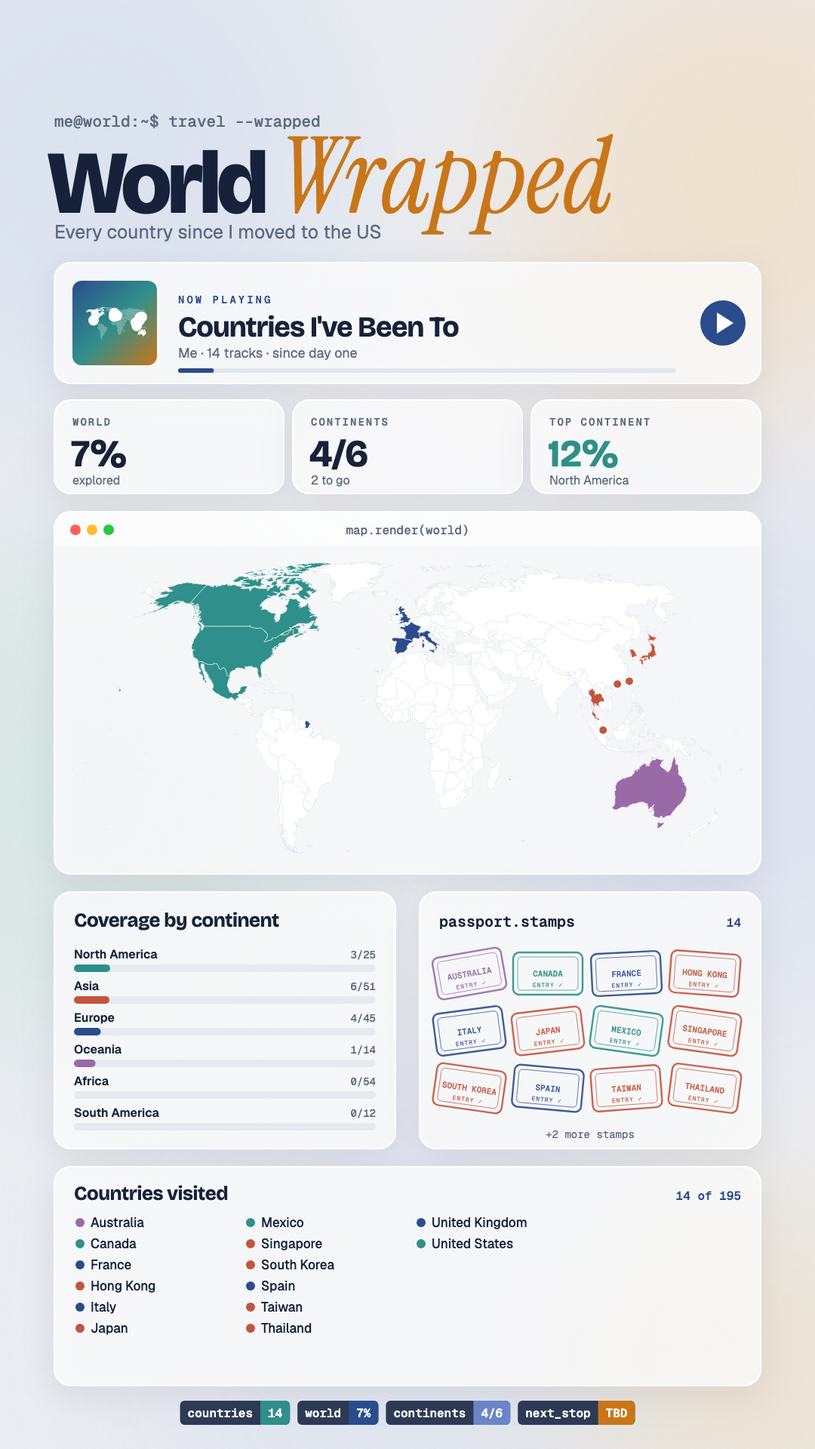
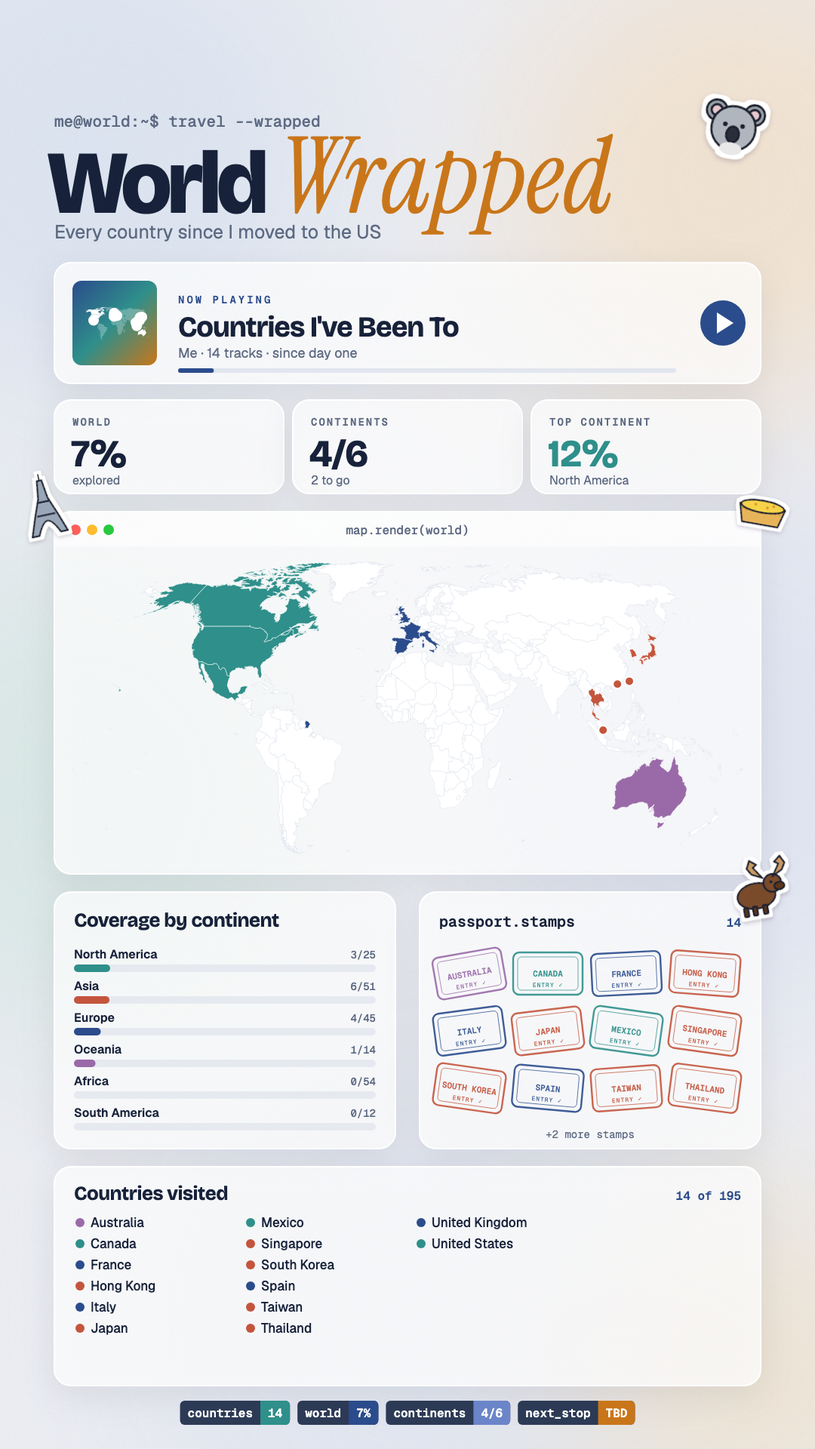
World mode stickers: what each country is known for
- generator/stickers-world.js: ~100 hand-drawn country stickers
  (Taiwan boba, Japan ramen, India curry, France Eiffel Tower...);
  other countries get a passport-stamp sticker in continent colors
- World designs place stickers around or on the world map
- Sticker picker works in World mode

diff --git a/generator/stickers-world.js b/generator/stickers-world.js
@@ -1,0 +1,137 @@
+/* Country stickers: what each country is known for. Loaded after stickers.js.
+   Countries without a hand-drawn sticker get a passport-stamp sticker (country code + continent color). */
+(function(){
+const O="#1f2433",W=3;let G=null;
+const S=e=>e.attr("stroke",O).attr("stroke-width",W).attr("stroke-linejoin","round").attr("stroke-linecap","round");
+const P=(d,f="none",ns)=>{const e=G.append("path").attr("d",d).attr("fill",f);return ns?e:S(e);};
+const C=(x,y,r,f,ns)=>{const e=G.append("circle").attr("cx",x).attr("cy",y).attr("r",r).attr("fill",f);return ns?e:S(e);};
+const E=(x,y,rx,ry,f,rot=0,ns)=>{const e=G.append("ellipse").attr("cx",x).attr("cy",y).attr("rx",rx).attr("ry",ry).attr("fill",f).attr("transform",rot?`rotate(${rot},${x},${y})`:null);return ns?e:S(e);};
+const R=(x,y,w,h,f,rx=3,ns)=>{const e=G.append("rect").attr("x",x).attr("y",y).attr("width",w).attr("height",h).attr("rx",rx).attr("fill",f);return ns?e:S(e);};
+const L=(d,w=W,c=O)=>G.append("path").attr("d",d).attr("fill","none").attr("stroke",c).attr("stroke-width",w).attr("stroke-linecap","round").attr("stroke-linejoin","round");
+const Tx=(x,y,t,s,c=O,w=800)=>G.append("text").attr("x",x).attr("y",y).attr("text-anchor","middle").attr("font-family","Bricolage Grotesque, Geist, sans-serif").attr("font-weight",w).attr("font-size",s).attr("fill",c).text(t);
+const eye=(x,y,r=2.6)=>C(x,y,r,O,true);
+const star=(x,y,r,f)=>{const p=[];for(let i=0;i<10;i++){const a=-Math.PI/2+i*Math.PI/5,rr=i%2?r*.45:r;p.push([x+Math.cos(a)*rr,y+Math.sin(a)*rr]);}P("M"+p.join("L")+"Z",f);};
+const A={
+/* ---------- Asia ---------- */
+"Taiwan":()=>{P("M-24,-24 L24,-24 L18,40 L-18,40Z","#ecc9a0");L("M-22,-6 L22,-6",2,"#d6a676");R(-28,-34,56,11,"#ffffff",4);L("M6,-34 L16,-56",8);L("M6,-34 L16,-56",4,"#ff8fab");[[-10,30],[0,33],[10,30],[-6,21],[6,21],[0,12]].forEach(([x,y])=>C(x,y,5,"#3b2414",true));},
+"Japan":()=>{P("M-42,-4 L42,-4 Q38,34 0,36 Q-38,34 -42,-4Z","#e2574c");L("M-36,12 Q0,22 36,12",2,"#ffffff");E(0,-4,42,9,"#f6d38a");E(-16,-6,10,6,"#ffffff");C(-16,-6,3.6,"#f6b73c",true);C(12,-7,7,"#ffffff");L("M9,-7 Q12,-12 15,-7 Q12,-3 10,-7",1.4,"#e2574c");L("M-6,-14 L36,-48",4);L("M4,-12 L42,-42",4);},
+"South Korea":()=>{P("M-24,-30 Q-40,-8 -32,20 Q-26,38 0,38 Q26,38 32,20 Q40,-8 24,-30Z","#8a5a3b");E(0,-30,26,6,"#6b4429");C(0,-38,5,"#6b4429");L("M-30,4 Q0,14 30,4",2,"#c49a6c");P("M-10,-36 Q-4,-50 4,-40 Q10,-52 14,-36Z","#e2574c");},
+"China":()=>{R(-42,4,84,30,"#d9b071",6);[14,24].forEach(y=>L(`M-42,${y} L42,${y}`,1.6,"#a87a3e"));E(-18,-4,18,13,"#fff7ea");E(16,-4,18,13,"#fff7ea");[-18,16].forEach(x=>{L(`M${x-8},${-8} Q${x},${-18} ${x+8},${-8}`,1.4,"#d9c8a8");C(x,-16,2.5,"#e8dcc4",true);});},
+"India":()=>{P("M-38,0 Q-36,30 0,32 Q36,30 38,0Z","#d9a54f");E(0,0,38,9,"#e8892f");[[-14,-2],[6,1],[18,-3],[-4,-4]].forEach(([x,y])=>C(x,y,2.4,"#4f9d69",true));E(24,-22,22,12,"#f2d29b",-22);[[18,-24],[28,-20],[26,-28]].forEach(([x,y])=>C(x,y,2,"#b8833e",true));},
+"Thailand":()=>{P("M-38,20 L-38,-8 Q-36,-28 -10,-28 L20,-28 L28,-4 L40,-2 L40,20Z","#2f8fd8");R(-42,-36,66,9,"#f6c64a",3);R(-30,-22,26,16,"#cfe9f7",3);C(-24,22,9,O,true);C(28,22,9,O,true);C(-24,22,3.5,"#d0d6de",true);C(28,22,3.5,"#d0d6de",true);},
+"Vietnam":()=>{P("M-46,12 L0,-36 L46,12Z","#f2d29b");for(const x of[-30,-15,0,15,30])L(`M0,-36 L${x},12`,1.2,"#c9a06a");L("M-22,12 Q0,34 22,12",2.5,"#c4553d");},
+"Singapore":()=>{P("M-14,0 Q-24,22 -10,40 L18,40 Q10,22 14,2Z","#e8e2d4");P("M10,38 Q26,30 30,40Z","#e8e2d4");C(-4,-18,17,"#e8e2d4");for(let i=0;i<7;i++){const a=Math.PI*.9+i*.28;L(`M${-4+12*Math.cos(a)},${-18+12*Math.sin(a)} L${-4+18*Math.cos(a)},${-18+18*Math.sin(a)}`,1.4,"#b9b2a2");}eye(-12,-22);L("M-20,-14 Q-34,-26 -44,-6",4,"#7fb2e5");},
+"Hong Kong":()=>{P("M-38,-6 L38,-6 L30,24 L-30,24Z","#e8b45a");L("M-34,4 L-30,0 L-26,4 L-22,0 L-18,4 L-14,0 L-10,4 L-6,0 L-2,4 L2,0 L6,4 L10,0 L14,4 L18,0 L22,4 L26,0 L30,4",1.4,"#c48a3a");E(0,-6,36,10,"#f6d34a");[[-12,-8],[8,-5],[18,-9]].forEach(([x,y])=>C(x,y,2.4,"#d99a2a",true));},
+"Macao":()=>{R(-34,-6,68,40,"#d9c3a0");R(-26,-28,52,22,"#d9c3a0");P("M-18,-28 L0,-46 L18,-28Z","#d9c3a0");L("M0,-46 L0,-56 M-5,-52 L5,-52",2.5);[[-24,4],[-6,4],[12,4]].forEach(([x,y])=>P(`M${x},${y+28} L${x},${y+10} Q${x+6},${y+2} ${x+12},${y+10} L${x+12},${y+28}`,"#a87a5a"));},
+"Philippines":()=>{R(-42,-20,84,36,"#e2574c",8);R(-42,-26,84,8,"#f6c64a",3);[-30,-12,6,24].forEach(x=>R(x,-14,14,12,"#cfe9f7",2));L("M-42,6 L42,6",2,"#ffffff");C(-24,18,9,O,true);C(26,18,9,O,true);P("M38,-26 L46,-40 L42,-26Z","#d0d6de");},
+"Indonesia":()=>{const h=s=>P(`M${s*4},40 L${s*4},-20 L${s*12},-20 L${s*12},-34 L${s*20},-34 L${s*20},-44 L${s*30},-44 L${s*30},-8 L${s*42},-8 L${s*42},40Z`,"#8a6a4a");h(-1);h(1);L("M-42,40 L42,40",3);},
+"Malaysia":()=>{[-16,16].forEach(x=>{P(`M${x-10},40 L${x-10},-20 L${x-6},-36 L${x+6},-36 L${x+10},-20 L${x+10},40Z`,"#d0d6de");L(`M${x},-36 L${x},-56`,2.4);for(let y=-14;y<40;y+=12)L(`M${x-8},${y} L${x+8},${y}`,1,"#9aa7b8");});R(-6,-8,12,6,"#9aa7b8",1);},
+"Cambodia":()=>{R(-44,14,88,26,"#c9b58a");[[-30,40],[-14,58],[0,72],[14,58],[30,40]].forEach(([x,h])=>P(`M${x-8},14 Q${x-10},${14-h*.6} ${x},${14-h} Q${x+10},${14-h*.6} ${x+8},14Z`,"#c9b58a"));},
+"Laos":()=>{P("M-22,-18 L22,-18 L26,30 Q0,40 -26,30Z","#d9b071");for(let y=-10;y<30;y+=8)L(`M-23,${y} L23,${y}`,1.3,"#a87a3e");E(0,-18,24,7,"#c49a5a");C(0,-28,6,"#c49a5a");L("M-24,-12 Q-40,-30 -24,-40",2.4);},
+"Myanmar":()=>{P("M-34,40 L-30,24 Q-30,0 0,-8 Q30,0 30,24 L34,40Z","#f2c14e");P("M-10,-8 Q0,-36 0,-56 Q0,-36 10,-8Z","#f2c14e");C(0,-58,3,"#ffffff");R(-38,36,76,6,"#d9a531",2);},
+"Nepal":()=>{P("M-44,40 L-6,-36 L10,-14 L20,-26 L44,40Z","#9fb3d8");P("M-18,-12 L-6,-36 L4,-22 L-4,-18 L-10,-24Z","#ffffff");L("M-44,-20 Q0,0 44,-28",1.2);["#e2574c","#f6c64a","#4f9d69","#4d8fcc","#ffffff"].forEach((c,i)=>{const x=-36+i*17,y=-17+i*-1.5+Math.sin(i)*3;P(`M${x},${y} L${x+10},${y} L${x+5},${y+12}Z`,c);});},
+"Sri Lanka":()=>{P("M-30,-6 L22,-6 L18,26 Q-4,34 -26,26Z","#ffffff");L("M22,2 Q38,4 30,18 Q26,22 20,18",3);E(-4,-6,26,6,"#c97a33");E(-34,32,40,6,"#ffffff");P("M14,-22 Q26,-40 38,-36 Q32,-20 14,-22Z","#4f9d69");L("M-8,-14 Q-14,-24 -6,-32",2,"#9aa7b8");},
+"Maldives":()=>{P("M-46,22 Q0,14 46,22 L46,40 L-46,40Z","#5ec6d6",true);[-24,0,24].forEach(x=>L(`M${x},4 L${x},30`,2.4));R(-34,-6,68,10,"#c99a63");P("M-38,-6 L0,-36 L38,-6Z","#d9b071");R(-8,-6,16,10,"#8a5a3b",1);},
+"Bhutan":()=>{P("M-44,40 L-30,-10 L-14,-20 L-4,40Z","#8a7a6a");R(-24,-34,30,18,"#ffffff");P("M-28,-34 L-9,-46 L10,-34Z","#c4553d");R(-18,-28,6,6,"#f6c64a",1);P("M-4,40 L10,-6 L44,40Z","#9fb3d8");},
+"Pakistan":()=>{P("M-8,-44 L8,-44 L10,10 L16,40 L-16,40 L-10,10Z","#d9b071");R(-4,-56,8,14,"#8a5a3b",2);L("M-6,-30 L6,-30 M-6,-24 L6,-24",1.4,"#8a5a3b");C(26,24,10,"#c4553d");L("M20,18 Q26,24 20,30",1.2,"#ffffff");},
+"Bangladesh":()=>{C(-24,24,13,"none");C(24,24,13,"none");L("M-24,24 L0,4 L24,24 M0,4 L-8,-8",3);P("M-14,-8 Q0,-44 30,-30 L28,-4Z","#4f9d69");R(-14,-8,40,8,"#e2574c",2);},
+"Mongolia":()=>{R(-36,4,72,34,"#ffffff",2);P("M-40,6 Q0,-34 40,6Z","#ffffff");L("M-36,14 L36,14",2,"#4d8fcc");R(-8,14,16,24,"#e2574c",2);C(0,-26,4,"#e2574c");},
+"Uzbekistan":()=>{R(-26,0,52,40,"#e8dcc4");P("M-22,0 Q-22,-40 0,-44 Q22,-40 22,0Z","#3f8fbf");for(const x of[-12,0,12])L(`M${x},-1 Q${x*0.6},-26 0,-42`,1.2,"#9fd0ec");P("M-8,40 L-8,18 Q0,8 8,18 L8,40Z","#3f8fbf");},
+"United Arab Emirates":()=>{P("M-20,40 L-12,-6 L-6,-6 L-4,-26 L2,-26 L2,-46 L4,-60 L6,-46 L6,-24 L10,-24 L12,-4 L18,-4 L22,40Z","#cfe3f2");L("M-6,0 L18,0 M-2,20 L20,20",1,"#9aa7b8");},
+"Saudi Arabia":()=>{P("M-22,36 Q-30,10 -16,-6 L10,-6 Q24,10 16,36Z","#e0b34a");P("M-10,-6 L-6,-26 L6,-26 L10,-6Z","#e0b34a");C(0,-30,5,"#e0b34a");P("M16,6 Q30,-4 44,-24 Q40,-6 22,14Z","#e0b34a");L("M-22,12 Q-40,10 -34,-8",3);},
+"Qatar":()=>{P("M-44,14 L44,14 L32,32 L-36,32Z","#8a5a3b");L("M-4,14 L-4,-48",3);P("M-2,-46 Q30,-20 34,10 L-2,10Z","#f4ead7");L("M-44,40 Q-30,34 -16,40 T12,40 T40,40",3,"#3c79b8");},
+"Jordan":()=>{R(-40,-46,80,86,"#e09a7e",4);R(-30,4,60,36,"#d08a6e");cols(-28,6,56,32,6);P("M-30,4 L0,-14 L30,4Z","#d08a6e");R(-10,-40,20,30,"#d08a6e");P("M-12,-40 L0,-48 L12,-40Z","#d08a6e");},
+"Israel":()=>{P("M-38,10 Q-38,-34 0,-34 Q38,-34 38,10Z","#f2d29b");[[-16,-8],[0,-14],[16,-8],[-6,0],[10,2]].forEach(([x,y])=>C(x,y,8,"#8a6a3a"));P("M-30,6 Q-10,-2 0,8 Q12,-2 30,6","#6fb36b");L("M-38,10 L38,10",3);},
+"Turkey":()=>{P("M-26,-14 Q-28,-48 0,-50 Q28,-48 26,-14 Q16,4 6,8 L-6,8 Q-16,4 -26,-14Z","#e2574c");for(const x of[-14,0,14])L(`M${x},-48 Q${x*1.3},-24 ${x*.4},6`,1.4,"#f6c64a");L("M-6,8 L-8,18 M6,8 L8,18",1.6);R(-10,18,20,12,"#8a5a3b",2);},
+"Lebanon":()=>{L("M0,40 L0,-4",6,"#8a5a3b");[[-38,24,0],[-30,18,-16],[-20,12,-34]].forEach(([w,h,y])=>P(`M${w},${y+h} L0,${y-6} L${-w},${y+h}Z`,"#3f8f5a"));},
+"Iran":()=>{R(-40,-30,80,60,"#b23a48",4);R(-32,-22,64,44,"#2b4c8c",3);P("M0,-16 L18,0 L0,16 L-18,0Z","#f2c14e");C(0,0,5,"#b23a48",true);for(let x=-38;x<=38;x+=8){L(`M${x},-30 L${x},-38`,1.2);L(`M${x},30 L${x},38`,1.2);}},
+"Georgia":()=>{P("M-46,0 Q-30,-26 0,-24 Q30,-26 46,0 Q30,24 0,22 Q-30,24 -46,0Z","#e8b45a");E(0,-2,24,12,"#fff2c6");C(0,-2,8,"#f6a623");},
+"Armenia":()=>{C(0,6,30,"#f6a64a");P("M0,-24 Q-4,6 0,36","none").attr("stroke","#e07a2a").attr("stroke-width",3);E(16,-30,14,6,"#5aa469",-30);L("M0,-24 L4,-34",3);},
+"Azerbaijan":()=>{[[-22,60],[0,80],[22,56]].forEach(([x,h])=>P(`M${x-12},40 Q${x-16},${40-h*.5} ${x},${40-h} Q${x+16},${40-h*.5} ${x+12},40Z`,"#4d8fcc"));},
+/* ---------- Europe ---------- */
+"France":()=>{P("M-30,40 Q-20,10 -8,-20 L-4,-50 L4,-50 L8,-20 Q20,10 30,40 L18,40 Q8,18 0,18 Q-8,18 -18,40Z","#9aa7b8");L("M-14,8 L14,8 M-8,-14 L8,-14",3);L("M0,-50 L0,-60",2.4);},
+"Italy":()=>{P("M-18,0 L0,44 L18,0Z","#e8b45a");L("M-12,6 L8,32 M12,6 L-8,32",1.2,"#b8833e");C(-8,-10,15,"#f7a6b8");C(10,-14,14,"#a6dcb4");C(0,-28,12,"#fff2c6");},
+"Spain":()=>{E(0,6,40,22,"#3a3a46");E(0,2,34,16,"#f2c14e");L("M-40,6 L-52,2 M40,6 L52,2",5);[[-14,-2],[8,4],[18,-6]].forEach(([x,y])=>P(`M${x-8},${y} Q${x},${y-10} ${x+8},${y}`,"#f28a6a"));[[-4,10],[12,12],[-20,8]].forEach(([x,y])=>C(x,y,3,"#5aa469",true));E(-18,-6,8,5,"#f6e27a");},
+"United Kingdom":()=>{R(-18,-44,36,86,"#d7263d",4);P("M-20,-44 Q0,-56 20,-44Z","#d7263d");R(-12,-30,24,6,"#ffffff",1);for(let y=-18;y<30;y+=14)[-12,0].forEach(x=>R(x+1,y,10,10,"#cfe9f7",1));},
+"Germany":()=>{P("M0,30 C-30,40 -46,6 -24,-18 C-6,-36 22,-30 18,-6 C14,10 -14,10 -18,-6 C-22,-30 6,-36 24,-18 C46,6 30,40 0,30","none").attr("stroke","#a0622d").attr("stroke-width",10);P("M0,30 C-30,40 -46,6 -24,-18 C-6,-36 22,-30 18,-6 C14,10 -14,10 -18,-6 C-22,-30 6,-36 24,-18 C46,6 30,40 0,30","none").attr("stroke","#c9824a").attr("stroke-width",5);[[-28,0],[20,-20],[30,10]].forEach(([x,y])=>C(x,y,1.8,"#ffffff",true));},
+"Netherlands":()=>{P("M-14,40 L-8,-10 L8,-10 L14,40Z","#c4553d");P("M-10,-10 L0,-22 L10,-10Z","#3a3a46");for(let i=0;i<4;i++)G.append("rect").attr("x",-4).attr("y",-58).attr("width",8).attr("height",42).attr("fill","#f4ead7").attr("stroke",O).attr("stroke-width",2.4).attr("transform",`rotate(${45+i*90},0,-18)`);C(0,-18,4,O,true);R(-4,24,8,16,"#8a5a3b",1);},
+"Belgium":()=>{R(-38,-30,76,60,"#e8b45a",10);for(const k of[-19,0,19]){L(`M${k},-30 L${k},30`,1.6,"#b8833e");L(`M-38,${k*.8} L38,${k*.8}`,1.6,"#b8833e");}P("M-20,-34 Q-10,-44 0,-34 Q10,-44 20,-34Z","#ffffff");},
+"Switzerland":()=>{R(-42,-12,84,24,"#d7263d",12);P("M-6,-6 L6,-6 L6,-2 L10,-2 L10,6 L6,6 L6,10 L-6,10 L-6,6 L-10,6 L-10,-2 L-6,-2Z","#ffffff",true);P("M28,-12 L44,-34 L48,-30 L36,-12Z","#d0d6de");},
+"Austria":()=>{P("M-10,-20 Q-26,-18 -22,0 Q-28,16 -14,30 Q0,40 14,30 Q28,16 22,0 Q26,-18 10,-20Z","#b5652e");R(-3,-52,6,36,"#3a2414",2);R(-6,-58,12,8,"#3a2414",3);L("M-8,0 Q-12,6 -8,12 M8,0 Q12,6 8,12",1.4);L("M-2,-16 L-2,30 M2,-16 L2,30",.8,"#f3e3c3");L("M-30,-30 L30,30",2.4,"#8a6a4a");},
+"Portugal":()=>{R(-42,-24,84,44,"#f6c64a",8);R(-42,-30,84,8,"#ffffff",3);[-30,-10,10].forEach(x=>R(x,-16,16,14,"#cfe9f7",2));R(26,-16,10,30,"#cfe9f7",2);L("M0,-30 L0,-46 M-10,-46 L10,-46",2);C(-24,22,6,O,true);C(24,22,6,O,true);},
+"Greece":()=>{R(-34,0,68,40,"#ffffff",2);R(-22,-16,30,16,"#ffffff",2);P("M-24,-16 Q-7,-48 10,-16Z","#2b6cd8");L("M-7,-46 L-7,-54",2);R(-10,16,12,24,"#2b6cd8",1);R(14,10,12,12,"#2b6cd8",1);},
+"Czechia":()=>{R(-24,-24,40,62,"#f6c64a",6);L("M16,-12 Q34,-12 34,8 Q34,26 16,24",4);P("M-28,-24 Q-30,-40 -16,-38 Q-10,-48 2,-40 Q14,-46 20,-34 Q26,-24 16,-22 L-28,-22Z","#ffffff");for(const x of[-12,0,10])L(`M${x},-14 L${x},32`,1.2,"#e0a72c");},
+"Ireland":()=>{for(const a of[0,120,240]){const r=a*Math.PI/180;G.append("path").attr("d","M0,-4 C-24,-20 -20,-46 0,-34 C20,-46 24,-20 0,-4Z").attr("fill","#3f9a5a").attr("stroke",O).attr("stroke-width",W).attr("transform",`rotate(${a})`);}L("M0,4 Q6,26 -4,42",4);},
+"Iceland":()=>{E(0,6,22,30,"#2b2f3a");E(4,12,14,22,"#ffffff");C(-4,-22,16,"#2b2f3a");E(-2,-18,10,9,"#ffffff");P("M-16,-20 Q-34,-16 -30,-6 Q-20,-10 -14,-14Z","#f28a3a");eye(-4,-22,2.4);P("M-10,36 L-14,44 L-2,44Z M8,36 L4,44 L16,44Z","#f28a3a");},
+"Norway":()=>{P("M-44,6 Q-40,26 0,26 Q40,26 44,6 L40,-10 L34,6 L-34,6 L-40,-10Z","#a0622d");P("M-44,-14 Q-52,-24 -44,-30","none");L("M-40,-10 Q-50,-22 -42,-30",3);L("M0,6 L0,-50",3);R(-22,-44,44,36,"#d7263d",2);for(const x of[-30,-15,0,15,30])C(x,10,5,"#f6c64a");},
+"Sweden":()=>{P("M-30,30 L-24,-4 Q-30,-18 -26,-30 L-14,-40 L-4,-30 L-4,-10 L24,-12 L32,30 L20,30 L18,10 L-14,10 L-18,30Z","#d7263d");L("M-20,-14 Q-10,-4 0,-14 M4,-4 Q14,4 24,-4",2,"#ffffff");C(-20,-28,2.4,"#ffffff",true);},
+"Denmark":()=>{R(-40,-10,80,40,"#d7263d",4);for(const x of[-24,0,24]){E(x,-10,10,4,"#e8434f");R(x-10,-18,20,8,"#d7263d",2);E(x,-18,10,4,"#e8434f");}},
+"Finland":()=>{E(0,10,18,24,"#a0743e");E(0,26,10,8,"#c99a63");C(-4,26,2.4,O,true);C(4,26,2.4,O,true);eye(-8,4);eye(8,4);[-1,1].forEach(s=>L(`M${s*10},-12 L${s*24},-40 M${s*18},-28 L${s*34},-34 M${s*22},-36 L${s*28},-50`,3.5,"#8a5a3b"));},
+"Poland":()=>{[[-16,6],[16,-2]].forEach(([x,y])=>{P(`M${x-28},${y+10} Q${x},${y-34} ${x+28},${y+10}Z`,"#f2d29b");L(`M${x-24},${y+10} L${x-20},${y+3} L${x-16},${y+10} L${x-12},${y+3} L${x-8},${y+10} L${x-4},${y+3} L${x},${y+10} L${x+4},${y+3} L${x+8},${y+10} L${x+12},${y+3} L${x+16},${y+10} L${x+20},${y+3} L${x+24},${y+10}`,1.6,"#b8833e");});[[-20,-6],[12,-14],[22,-8]].forEach(([x,y])=>C(x,y,2.4,"#c98a3e",true));E(0,24,36,6,"#ffffff");},
+"Hungary":()=>{P("M-14,-42 L14,-42 L20,40 L-20,40Z","#d99a4e");for(let y=-36;y<40;y+=12)L(`M${-14-(y+42)*.075},${y} L${14+(y+42)*.075},${y+8}`,2,"#b8732e");[[-6,-20],[8,0],[-4,18]].forEach(([x,y])=>C(x,y,2,"#ffffff",true));},
+"Croatia":()=>{P("M-10,-44 L10,-44 L6,-30 L14,28 L0,44 L-14,28 L-6,-30Z","#d7263d");for(let y=-24;y<34;y+=12)for(let x=-10;x<10;x+=8)R(x+((y/12)%2?4:0),y,4,6,"#ffffff",0,true);P("M-12,-50 L12,-50 L10,-40 L-10,-40Z","#d7263d");},
+"Russia":()=>{P("M-26,40 Q-34,10 -20,-8 Q-26,-30 0,-44 Q26,-30 20,-8 Q34,10 26,40Z","#d7263d");C(0,-24,12,"#f6d9b4");E(0,10,14,16,"#f6c64a");C(0,6,6,"#d7263d");eye(-4,-25,1.8);eye(4,-25,1.8);C(-6,-20,2.4,"#ff8a9a",true);C(6,-20,2.4,"#ff8a9a",true);},
+"Ukraine":()=>{E(0,0,28,38,"#f6c64a");L("M-28,0 L28,0",3,"#2b6cd8");L("M-26,-14 L26,-14 M-26,14 L26,14",2,"#d7263d");for(const x of[-16,-6,4,14])P(`M${x},-6 L${x+5},0 L${x},6 L${x-5},0Z`,"#2b6cd8");},
+"Romania":()=>{P("M0,-8 Q-14,-30 -46,-24 Q-38,-14 -40,-4 Q-30,-12 -24,-4 Q-18,-12 -10,-2 Q-4,-6 0,4 Q4,-6 10,-2 Q18,-12 24,-4 Q30,-12 40,-4 Q38,-14 46,-24 Q14,-30 0,-8Z","#3a3a46");E(0,4,8,14,"#3a3a46");P("M-6,-8 L-10,-20 L-2,-12 M6,-8 L10,-20 L2,-12","#3a3a46");C(-3,-2,1.8,"#f6c64a",true);C(3,-2,1.8,"#f6c64a",true);C(30,-38,8,"#f6e27a");},
+"Bulgaria":()=>{L("M0,40 Q-4,10 0,-8",4,"#3f8f5a");E(-12,16,10,5,"#4f9d69",-30);C(0,-20,18,"#e8435a");L("M-10,-26 Q0,-10 10,-26 M-6,-16 Q0,-30 8,-14",1.6,"#a8243a");},
+"Vatican City":()=>{R(-40,10,80,30,"#e8e2d4");cols(-38,12,76,26,8);R(-22,-10,44,20,"#e8e2d4");P("M-22,-10 Q-22,-46 0,-48 Q22,-46 22,-10Z","#9fc0d8");L("M0,-48 L0,-62 M-5,-56 L5,-56",2.4);},
+"Monaco":()=>{C(0,0,36,"#d7263d");C(0,0,24,"#ffffff");for(let i=0;i<8;i++){const a=i*Math.PI/4;R(-4,-36,8,10,"#ffffff",1,true).attr("transform",`rotate(${i*45})`);}Tx(0,8,"$",22,"#d7263d");},
+"Malta":()=>{for(let i=0;i<4;i++)G.append("path").attr("d","M0,0 L-14,-40 L0,-30 L14,-40Z").attr("fill","#ffffff").attr("stroke","#d7263d").attr("stroke-width",3).attr("stroke-linejoin","round").attr("transform",`rotate(${i*90})`);},
+"Slovenia":()=>{E(0,24,44,14,"#5ec6d6");P("M-24,18 Q0,-2 24,18Z","#4f9d69");R(-6,-30,12,40,"#ffffff");P("M-8,-30 L0,-48 L8,-30Z","#c4553d");R(6,-8,18,18,"#ffffff");P("M4,-8 L15,-18 L26,-8Z","#c4553d");},
+/* ---------- Africa ---------- */
+"Egypt":()=>{C(28,-28,10,"#f6c64a");P("M-46,36 L-14,-20 L18,36Z","#e1b15e");P("M2,36 L26,-6 L48,36Z","#d49d4a");L("M-14,-20 L-10,36",1.4,"#b8833e");},
+"Morocco":()=>{P("M-38,22 L38,22 Q36,32 0,34 Q-36,32 -38,22Z","#c4553d");P("M-30,22 Q-24,-10 0,-40 Q24,-10 30,22Z","#d4693a");C(0,-42,5,"#d4693a");L("M-24,6 Q0,0 24,6",2,"#f6c64a");},
+"Kenya":()=>{P("M-6,40 L-4,-14 Q-6,-30 6,-36 L24,-30 Q30,-26 24,-22 L10,-22 L10,40Z","#f2c14e");[[0,20],[4,0],[0,-16],[16,-30]].forEach(([x,y])=>C(x,y,3.4,"#a0622d",true));L("M2,-36 L0,-46 M8,-36 L8,-46",3);eye(14,-30,2.2);},
+"Tanzania":()=>{P("M-46,40 L-12,-20 Q0,-28 12,-20 L46,40Z","#7a6a8a");P("M-20,-6 Q-12,-22 0,-24 Q12,-22 20,-6 Q8,-10 0,-4 Q-8,-10 -20,-6Z","#ffffff");L("M-30,40 L-28,8",2.6,"#5c3a1e");P("M-46,8 Q-28,-4 -10,8Z","#5aa469");},
+"South Africa":()=>{E(0,6,22,32,"#2b2f3a");E(0,12,14,24,"#ffffff");C(0,-26,14,"#2b2f3a");P("M-10,-28 Q0,-18 10,-28 Q0,-22 -10,-28Z","#ffffff");P("M-4,-22 L4,-22 L0,-14Z","#f28a3a");eye(-6,-30,2.2);eye(6,-30,2.2);P("M-12,38 L-4,38 L-8,44Z M12,38 L4,38 L8,44Z","#f28a3a");},
+"Madagascar":()=>{P("M14,10 Q40,4 44,28 Q46,44 30,44","none");for(let k=0;k<7;k++){const t=k/7;L(`M${16+t*28},${8+t*4} L${20+t*26},${12+t*6}`,9,k%2?"#ffffff":"#2b2f3a");}L("M14,10 Q40,4 44,28 Q46,44 30,44",11,"#2b2f3a");L("M14,10 Q40,4 44,28 Q46,44 30,44",5,"#ffffff");E(-6,14,20,22,"#9aa0a8");C(-6,-20,20,"#9aa0a8");E(-6,-14,13,10,"#ffffff");C(-14,-24,7,"#f6c64a");C(2,-24,7,"#f6c64a");eye(-14,-24,3.4);eye(2,-24,3.4);P("M-10,-12 L-2,-12 L-6,-7Z",O,true);P("M-24,-36 L-20,-26 L-14,-34Z M12,-36 L8,-26 L2,-34Z","#9aa0a8");},
+"Nigeria":()=>{P("M-36,-4 L36,-4 L32,32 Q0,40 -32,32Z","#3a3a46");R(-40,-10,80,8,"#3a3a46",3);P("M-34,-8 Q0,-34 34,-8Z","#e8693a");[[-14,-16],[6,-20],[16,-12]].forEach(([x,y])=>C(x,y,3,"#f2c14e",true));L("M-36,10 L-46,6 M36,10 L46,6",4);},
+"Ghana":()=>{P("M0,-40 Q-26,-30 -26,0 Q-26,30 0,40 Q26,30 26,0 Q26,-30 0,-40Z","#e2a33a");for(const x of[-14,0,14])L(`M${x},-36 Q${x*1.4},0 ${x},36`,1.6,"#b8732e");L("M0,-40 L0,-50",3);},
+"Ethiopia":()=>{C(0,14,24,"#3a2414");P("M-8,-10 L-6,-38 L6,-38 L8,-10Z","#3a2414");L("M16,0 Q34,-12 30,-30",4,"#3a2414");P("M-12,-38 L12,-38 L8,-46 L-8,-46Z","#c4553d");L("M-6,4 Q0,10 6,4",1.6,"#c99a63");},
+"Tunisia":()=>{R(-30,-40,60,80,"#ffffff",4);P("M-22,40 L-22,-10 Q-22,-32 0,-32 Q22,-32 22,-10 L22,40Z","#2b6cd8");for(const [x,y] of [[-12,-14],[0,-20],[12,-14],[-12,8],[0,2],[12,8],[-12,28],[12,28]])C(x,y,2.6,O,true);},
+"Namibia":()=>{P("M-46,40 Q-20,-30 10,-10 Q30,-30 46,40Z","#d9693a");P("M-46,40 Q-20,-30 10,-10 L-10,40Z","#e8894a",true);L("M28,40 L28,10 M28,20 L18,8 M28,16 L38,4",2.6);},
+"Botswana":()=>{E(-4,8,32,24,"#9aa7b8");C(26,-6,16,"#9aa7b8");P("M34,4 Q44,24 36,40","none").attr("stroke",O).attr("stroke-width",8);P("M34,4 Q44,24 36,40","none").attr("stroke","#9aa7b8").attr("stroke-width",4);P("M18,-14 Q4,-20 10,6Z","#b4bfcc");eye(28,-8,2.2);[-24,-10,6,18].forEach(x=>R(x-4,26,9,14,"#9aa7b8",2));},
+"Rwanda":()=>{C(0,0,32,"#3a3a46");E(0,6,20,18,"#6a6a76");eye(-8,-2,3);eye(8,-2,3);E(0,12,8,5,"#3a3a46",0,true);L("M-6,20 Q0,24 6,20",1.6,"#ffffff");C(-30,-6,8,"#3a3a46");C(30,-6,8,"#3a3a46");},
+"Mauritius":()=>{E(-2,10,28,24,"#9aa0a8");C(16,-18,14,"#9aa0a8");P("M28,-18 Q46,-14 40,-4 Q32,-6 26,-10Z","#f6c64a");eye(18,-22,2.4);P("M-30,8 Q-40,-4 -34,-16 Q-26,-6 -22,2Z","#ffffff");L("M-8,32 L-10,44 M6,32 L8,44",3,"#f6c64a");},
+"Seychelles":()=>{P("M-46,40 L46,40 L46,20 Q0,8 -46,20Z","#f2deb4",true);E(-14,10,22,18,"#a8a0a0");E(16,14,16,14,"#b8b0b0");L("M28,40 Q22,0 32,-30",3);[[-26,-6],[26,-6],[-16,8],[16,8],[0,-16]].forEach(([dx,dy])=>L(`M32,-30 Q${32+dx/2},${-30+dy-10} ${32+dx},${-30+dy+6}`,4,"#3f8f5a"));},
+/* ---------- North America ---------- */
+"United States":()=>{E(0,-14,38,18,"#e0a35a");[[-16,-20],[0,-24],[14,-18],[-6,-12]].forEach(([x,y])=>E(x,y,2.4,1.4,"#ffffff",20,true));R(-40,-4,80,8,"#5aa469",4);R(-40,2,80,10,"#7a3a1e",4);R(-36,10,72,6,"#f6c64a",2);P("M-38,16 L38,16 Q36,30 0,30 Q-36,30 -38,16Z","#e0a35a");},
+"Canada":()=>{E(-6,10,30,20,"#7a4b2a");C(22,-6,14,"#7a4b2a");E(32,0,8,6,"#5c3519");[-1,1].forEach(s=>P(`M${16+s*8},-16 L${16+s*20},-34 L${16+s*14},-38 L${16+s*24},-46 L${16+s*30},-34 L${16+s*24},-24 Z`,"#c99a63"));eye(20,-8,2.4);[-26,-12,4].forEach(x=>R(x-3,26,7,14,"#5c3519",2));},
+"Mexico":()=>{P("M-40,20 Q-40,-30 0,-30 Q40,-30 40,20Z","#f2c14e");P("M-32,10 Q-30,-20 0,-22 Q30,-20 32,10 Q20,-8 0,-6 Q-20,-8 -32,10Z","#5aa469");[[-14,-12],[8,-14],[20,-6]].forEach(([x,y])=>C(x,y,4,"#e2574c"));P("M-24,4 Q0,-10 24,4 Q0,-2 -24,4Z","#8a4a2a");},
+"Cuba":()=>{P("M-44,14 L-40,-4 L-22,-6 L-12,-22 L18,-22 L26,-6 L44,-2 L44,14Z","#4dc4b4");R(-8,-18,24,12,"#cfe9f7",2);L("M-44,4 L44,6",2,"#ffffff");C(-24,16,9,O,true);C(28,16,9,O,true);C(-24,16,3.5,"#d0d6de",true);C(28,16,3.5,"#d0d6de",true);},
+"Jamaica":()=>{P("M-30,8 Q-20,-14 6,-10 Q20,-8 22,4 Q10,14 -30,8Z","#2f8f5a");P("M18,-4 L48,-8 L22,4Z","#2b2f3a");C(12,-6,8,"#2f8f5a");eye(14,-8,2);P("M-26,4 Q-46,10 -48,30 Q-34,22 -24,10Z","#2b2f3a");P("M-14,0 Q-10,-30 6,-36 Q2,-14 -4,0Z","#5ec6a6");},
+"Trinidad and Tobago":()=>{E(0,-6,40,16,"#d0d6de");E(0,-6,32,11,"#9aa7b8");[[-14,-8],[4,-10],[18,-4],[-2,0]].forEach(([x,y])=>E(x,y,6,4,"#d0d6de"));L("M-40,-6 L-40,22 Q0,36 40,22 L40,-6",3);L("M-30,30 L-36,46 M30,30 L36,46",3,"#c4553d");},
+"Bahamas":()=>{P("M-36,10 Q-30,-30 10,-36 Q40,-30 36,0 Q30,24 0,30 Q-24,30 -36,10Z","#f7b9a8");P("M-20,6 Q-4,-20 22,-16","none");L("M-20,6 Q-4,-20 22,-16 M-14,16 Q8,-6 30,-2",2,"#e08a7a");P("M36,0 Q46,6 44,16 Q34,12 30,6Z","#f7b9a8");},
+"Puerto Rico":()=>{E(0,8,26,18,"#7cc46a");C(0,-14,16,"#7cc46a");C(-8,-22,7,"#ffffff");C(8,-22,7,"#ffffff");eye(-8,-22,3.4);eye(8,-22,3.4);L("M-6,-6 Q0,-2 6,-6",2);[[-28,24],[28,24],[-24,-2],[24,-2]].forEach(([x,y])=>C(x,y,6,"#7cc46a"));},
+"Costa Rica":()=>{L("M-46,-30 L46,-30",4,"#8a5a3b");C(0,0,20,"#b8a088");E(0,4,14,12,"#e8dcc4");E(-6,0,6,4,"#5c3a1e",-10);E(6,0,6,4,"#5c3a1e",10);eye(-6,0,2);eye(6,0,2);L("M-4,10 Q0,13 4,10",1.6);L("M-16,-12 L-26,-30 M16,-12 L26,-30",6,"#b8a088");},
+"Panama":()=>{E(0,14,44,12,"#f2deb4");P("M-24,14 Q-26,-24 0,-26 Q26,-24 24,14Z","#f2deb4");R(-24,0,48,8,"#3a3a46",2);for(let x=-38;x<40;x+=10)L(`M${x},14 l4,6`,1,"#c9b48a");},
+"Guatemala":()=>{[[-40,36,80,14],[-32,22,64,14],[-24,8,48,14],[-16,-6,32,14]].forEach(([x,y,w,h])=>R(x,y,w,h,"#b8b0a0",1));R(-10,-30,20,24,"#b8b0a0",1);R(-6,-26,12,10,"#3a3a46",1);L("M0,-6 L0,36",8,"#a8a090");},
+"Greenland":()=>{P("M-46,30 L-30,-10 L-14,0 L0,-40 L18,-6 L30,-20 L46,30Z","#e8f4fb");L("M-46,30 L46,30",3,"#4d8fcc");P("M-46,30 L46,30 L40,40 L-40,40Z","#bfe0f2");L("M0,-40 L-6,10 M18,-6 L14,20",1.4,"#9fc6dc");},
+"Dominican Republic":()=>{C(0,0,32,"#ffffff");L("M-22,-22 Q-6,0 -22,22 M22,-22 Q6,0 22,22",2.4,"#e2574c");for(let k=-3;k<=3;k++){L(`M${-19+Math.abs(k)*1.5},${k*6} l-5,-2`,1.2,"#e2574c");L(`M${19-Math.abs(k)*1.5},${k*6} l5,-2`,1.2,"#e2574c");}},
+/* ---------- South America ---------- */
+"Brazil":()=>{E(-6,12,18,26,"#2b2f3a");E(-4,18,10,16,"#ffffff");C(-2,-16,16,"#2b2f3a");E(-4,-12,10,8,"#ffffff");P("M8,-22 Q40,-26 46,-8 Q30,-2 8,-8Z","#f28a3a");P("M8,-22 Q30,-24 40,-16","none");eye(-2,-20,3);L("M-10,36 L-12,44 M2,36 L4,44",3,"#4d8fcc");},
+"Peru":()=>{E(-4,12,24,18,"#f4ead7");P("M10,-2 L14,-34 Q16,-44 24,-44 Q30,-44 30,-36 L28,-4Z","#f4ead7");E(22,-48,4,7,"#f4ead7",-20);E(30,-46,4,7,"#f4ead7",20);eye(24,-36,2.4);[-22,-10,4,14].forEach(x=>R(x-3,26,7,16,"#f4ead7",2));L("M-18,4 L14,4",4,"#e2574c");},
+"Argentina":()=>{P("M-22,-14 Q-30,10 -18,30 Q0,42 18,30 Q30,10 22,-14Z","#b07a3e");E(0,-14,22,7,"#7a4b2a");E(0,-14,16,5,"#6aa84f");L("M8,-14 L22,-48",4,"#d0d6de");R(18,-52,10,6,"#d0d6de",2);L("M-18,6 Q0,14 18,6",2,"#e8c38a");},
+"Chile":()=>{P("M-20,40 L-20,-10 Q-22,-40 0,-44 Q22,-40 20,-10 L20,40Z","#8a8070");P("M-24,-30 Q0,-56 24,-30 L22,-24 L-22,-24Z","#c4553d");R(-14,-14,10,6,"#3a3a46",1);R(4,-14,10,6,"#3a3a46",1);P("M-2,-8 L4,10 L-4,10Z","#7a7060");L("M-8,22 L8,22",3);},
+"Colombia":()=>{E(0,0,40,30,"#f2d29b");E(0,0,40,30,"none");P("M-40,0 Q0,10 40,0 Q0,-6 -40,0Z","#fff2c6");[[-24,-12],[10,-16],[22,10],[-10,14]].forEach(([x,y])=>C(x,y,3,"#c99a63",true));},
+"Ecuador":()=>{P("M-30,14 Q-30,-24 4,-26 Q34,-24 34,14Z","#8a7a5a");for(const [x,y] of [[-14,-8],[4,-12],[20,-4],[-6,6],[14,8]])P(`M${x-7},${y} L${x},${y-6} L${x+7},${y} L${x},${y+6}Z`,"none");R(-34,12,70,6,"#8a7a5a",3);E(-38,0,10,8,"#a8a088");eye(-42,-2,2);[-24,-6,14,28].forEach(x=>R(x-4,16,9,14,"#a8a088",3));},
+"Bolivia":()=>{E(0,10,40,10,"#2b2f3a");P("M-22,10 Q-26,-30 0,-32 Q26,-30 22,10Z","#2b2f3a");R(-22,0,44,6,"#c4553d",2);C(18,0,4,"#f6c64a",true);},
+/* ---------- Oceania ---------- */
+"Australia":()=>{C(-24,-20,13,"#9aa0a8");C(24,-20,13,"#9aa0a8");C(-24,-20,7,"#e8c8cf");C(24,-20,7,"#e8c8cf");C(0,0,28,"#b0b6be");E(0,8,8,10,"#2b2f3a");eye(-11,-4,3);eye(11,-4,3);E(0,26,14,8,"#e8e8e8",0,true);},
+"New Zealand":()=>{E(-4,6,28,22,"#7a5a3a");C(20,-10,12,"#7a5a3a");L("M30,-8 Q44,6 46,24",3,"#d9b071");eye(22,-12,2.4);L("M-8,28 L-12,42 L-18,42 M4,28 L6,42 L12,42",3,"#d9b071");for(let k=0;k<5;k++)L(`M${-24+k*8},${-4+k%2*6} l4,4`,1,"#5c3e24");},
+"Fiji":()=>{C(0,10,30,"#8a5a3b");P("M-26,-4 Q0,-16 26,-4","none");E(0,-6,24,8,"#f4ead7");L("M10,-6 L22,-46",4,"#e2574c");P("M-24,-14 Q-36,-30 -22,-36 Q-14,-24 -16,-14Z","#5aa469");C(-12,-12,6,"#ff8fab");},
+"Palau":()=>{P("M-26,0 Q-26,-34 0,-34 Q26,-34 26,0Z","#f6b2c6");for(const x of[-18,-6,6,18])L(`M${x},0 Q${x+6},16 ${x},28 Q${x-6},40 ${x+2},46`,2.4,"#e88aa8");eye(-8,-14,2.2);eye(8,-14,2.2);}
+};
+function cols(x,y,w,h,n){for(let i=0;i<n;i++)L(`M${x+4+i*(w-8)/(n-1)},${y} L${x+4+i*(w-8)/(n-1)},${y+h}`,1.4);}
+const CONT_C={"Asia":"#c4553d","Europe":"#2b4c8c","Africa":"#d08a2c","North America":"#2f8f8a","South America":"#6b85c9","Oceania":"#9a6aa8"};
+function contOf(n){const DB=window.WORLD_DB||{};for(const k in DB)if(DB[k].some(a=>a[0]===n))return k;return "Asia";}
+function stamp(n){const c=CONT_C[contOf(n)],code=n.replace(/[^A-Za-z ]/g,"").split(" ").filter(Boolean).map(w=>w[0]).join("").slice(0,3).toUpperCase();
+ const lbl=code.length>=2?code:n.slice(0,3).toUpperCase();
+ R(-40,-30,80,60,"#ffffff",10);G.append("rect").attr("x",-34).attr("y",-24).attr("width",68).attr("height",48).attr("rx",6).attr("fill","none").attr("stroke",c).attr("stroke-width",2.4).attr("stroke-dasharray","4 3");
+ Tx(0,6,lbl,24,c);Tx(0,20,"✈ VISITED",8,c,700);}
+window.STICKER_COUNTRIES=Object.keys(A);
+const prev=window.drawSticker;
+window.drawSticker=function(par,name,x,y,s=1,rot=0,filter){
+  if(typeof name==="string"&&name.startsWith("c:")){const n=name.slice(2);const g=par.append("g").attr("transform",`translate(${x},${y}) rotate(${rot}) scale(${s})`);if(filter)g.attr("filter",filter);G=g;(A[n]||(()=>stamp(n)))();G=null;return g;}
+  return prev(par,name,x,y,s,rot,filter);};
+})();

diff --git a/generator/index.html b/generator/index.html
@@ -3,7 +3,7 @@
 <link href="https://fonts.googleapis.com/css2?family=Fraunces:opsz,wght@9..144,600;9..144,900&family=Baloo+2:wght@600;800&family=Bungee&family=Caveat:wght@500;700&family=Shrikhand&family=Great+Vibes&family=Playfair+Display:ital,wght@0,600;1,500&family=DM+Sans:wght@400;500;700&family=Archivo+Black&family=Space+Mono:wght@400;700&family=Pacifico&family=Courier+Prime:wght@400;700&family=Rubik:wght@500;700;800&family=Bangers&family=Luckiest+Guy&family=Permanent+Marker&family=Bebas+Neue&family=Anton&family=Limelight&family=Big+Shoulders+Display:wght@600;800&family=IBM+Plex+Sans:wght@400;500;600;700&family=IBM+Plex+Mono:wght@400;500;600&family=Cormorant+Garamond:ital,wght@0,500;0,600;1,500&family=Cinzel:wght@500;600&family=Bodoni+Moda:ital,opsz,wght@0,6..96,500;0,6..96,700;1,6..96,500&family=Bricolage+Grotesque:opsz,wght@12..96,500..800&family=Instrument+Serif:ital@0;1&family=Geist:wght@400;500;600;700&family=Geist+Mono:wght@400;500;600&display=block" rel="stylesheet">
 <style>html,body{margin:0;width:1080px;height:1920px;overflow:hidden}svg{display:block}</style>
 <script src="https://cdn.jsdelivr.net/npm/d3@7.9.0/dist/d3.min.js"></script><script src="https://cdn.jsdelivr.net/npm/topojson-client@3.1.0/dist/topojson-client.min.js"></script>
-<script src="data/us-states.js"></script><script src="data/world-countries.js"></script><script src="stickers.js"></script><script src="landmarks.js"></script><script src="../maker/cities.js"></script><script src="../maker/countries.js"></script>
+<script src="data/us-states.js"></script><script src="data/world-countries.js"></script><script src="stickers.js"></script><script src="landmarks.js"></script><script src="stickers-world.js"></script><script src="../maker/cities.js"></script><script src="../maker/countries.js"></script>
 <script src="../my-travel.js"></script>
 </head><body>
 <svg id="s" width="1080" height="1920" viewBox="0 0 1080 1920" xmlns="http://www.w3.org/2000/svg"></svg>
@@ -1617,7 +1617,7 @@ function wTiles(P,WD,y0,yEnd,cols,colsC){const per=Math.ceil(WD.n/cols),th=Math.
 function worldAtlas(P){const WD=W(),C=P.dark?CCOL_D:CCOL,sh=shadow(0,8,18,"#0b1220",P.dark?.35:.07);
  dotBg(P.bg,P.line);wHeader(P,WD,`${CONFIG.name.toUpperCase()}  ·  WORLD LOG  ·  ${CONFIG.sinceShort.toUpperCase()}`,wTitle());wBoard(P,WD,482,sh);
  svg.append("rect").attr("x",72).attr("y",644).attr("width",936).attr("height",520).attr("rx",14).attr("fill",P.surf).attr("stroke",P.line).attr("stroke-width",1.5).attr("filter",sh);
- worldMap(svg,[96,672,888,420],{fill:k=>C[k],un:P.un,vStroke:P.surf,unStroke:P.unS});
+ const wm=worldMap(svg,[96,672,888,420],{fill:k=>C[k],un:P.un,vStroke:P.surf,unStroke:P.unS});
  let lx=0;const ms=svg.append("text").attr("font-family",PLEX).attr("font-size",15).attr("font-weight",600).attr("opacity",0);const ws=CONTS.map(k=>{ms.text(k);return ms.node().getComputedTextLength()+38;});ms.remove();
  lx=540-ws.reduce((a,b)=>a+b,0)/2;CONTS.forEach((k,i)=>{svg.append("rect").attr("x",lx).attr("y",1122).attr("width",13).attr("height",13).attr("rx",3).attr("fill",C[k]);T(svg,lx+20,1134,k,{f:PLEX,w:600,s:15,c:P.muted});lx+=ws[i];});
  // continents progress
@@ -1625,7 +1625,22 @@ function worldAtlas(P){const WD=W(),C=P.dark?CCOL_D:CCOL,sh=shadow(0,8,18,"#0b12
  CONTS.forEach((k,i)=>{const c=i%3,r=Math.floor(i/3),x=72+c*318,y=1244+r*58,[v,tt]=WD.by[k];T(svg,x,y+18,k,{f:PLEX,w:600,s:17,c:P.ink});T(svg,x+300,y+18,`${v}/${tt}`,{f:MONO,w:500,s:14,c:P.muted,a:"end"});
   svg.append("rect").attr("x",x).attr("y",y+28).attr("width",300).attr("height",10).attr("rx",5).attr("fill",P.un);svg.append("rect").attr("x",x).attr("y",y+28).attr("width",Math.max(v?10:0,300*v/tt)).attr("height",10).attr("rx",5).attr("fill",C[k]);});
  T(svg,72,1416,"Countries visited",{f:DISP,w:700,s:30,ls:-.5,c:P.ink});T(svg,1008,1416,`${WD.n} / 195`,{f:MONO,w:500,s:17,ls:2,c:P.amber,a:"end"});
- wTiles(P,WD,1436,1870,WD.n>24?4:3,C);}
+ wTiles(P,WD,1436,1870,WD.n>24?4:3,C);
+ wStickerLayer(wm,[[1006,672,.85,10],[74,690,.85,-8],[1006,1130,.8,-6],[74,1126,.8,8],[940,250,1.0,8]],.36);}
+
+function vSheetW(){bg("#eef1f5");const F=stickerFilter(5);const all=[...STICKER_COUNTRIES.slice().sort(),"Kazakhstan","Estonia","Uruguay","Samoa"];
+ const pg=+(location.hash.match(/pg=(\d)/)||[0,0])[1],per=50,list=all.slice(pg*per,pg*per+per);
+ T(svg,540,80,`COUNTRY STICKERS · ${pg+1}`,{f:DISP,w:800,s:40,c:"#17223a",a:"middle"});
+ list.forEach((n,i)=>{const c=i%5,r=Math.floor(i/5),x=108+c*216,y=180+r*172;drawSticker(svg,"c:"+n,x,y,1,0,F);fitT(T(svg,x,y+70,n,{f:PLEX,w:600,s:15,c:"#5d6a82",a:"middle"}),200,15);});}
+/* world stickers */
+function wPick(n){const WD=W(),have=new Set(window.STICKER_COUNTRIES||[]);
+ if(Array.isArray(CONFIG.stickerPick)&&CONFIG.mode==="world")return CONFIG.stickerPick.filter(c=>WD.list.includes(c)).slice(0,n);
+ return [...WD.list.filter(c=>have.has(c)),...WD.list.filter(c=>!have.has(c))].slice(0,n);}
+function wStickerLayer(wm,slots,k=.4){const mode=CONFIG.stickers||"around";if(mode==="off")return;const F=stickerFilter(5);
+ if(mode!=="map"||!wm){wPick(slots.length).forEach((c,i)=>{const [x,y,kk,r]=slots[i];drawSticker(svg,"c:"+c,x,y,kk,r,F);});return;}
+ const feats=topojson.feature(WORLD,WORLD.objects.countries).features,placed=[],minD=86*k;
+ wPick(80).forEach((c,i)=>{const f=feats.find(ff=>ff.properties.name===wm.WD.mapName[c]);if(!f)return;let [x,y]=wm.path.centroid(f);if(c==="United States"){[x,y]=wm.proj([-98,39]);}if(c==="Canada")[x,y]=wm.proj([-100,58]);if(c==="France")[x,y]=wm.proj([2.5,46.5]);
+  if(!isFinite(x)||placed.some(([a,b])=>Math.hypot(a-x,b-y)<minD))return;placed.push([x,y]);drawSticker(svg,"c:"+c,x,y,k,((i*37)%17)-8,F);});}
 function v80(){worldAtlas(ATLAS.light);}
 function v81(){worldAtlas(ATLAS.dark);}
 /* World Wrapped */
@@ -1644,7 +1659,7 @@ function v82(){const WD=W(),INK="#17223a",MUT="#5d6a82",AMB="#c9761a",ACC="#2b4c
   T(svg,x+24,564,k,{f:MONO,w:600,s:14,ls:2,c:MUT});T(svg,x+22,618,v,{f:DISP,w:700,s:50,c:i===2?C[WD.top]:INK});T(svg,x+24,642,s,{f:PLEX,s:16,c:MUT});});
  glass(72,678,936,480);svg.append("path").attr("d","M72,700 a22,22 0 0 1 22,-22 h892 a22,22 0 0 1 22,22 v24 h-936Z").attr("fill","#ffffff").attr("fill-opacity",.6);
  ["#ff5f57","#febc2e","#28c840"].forEach((c,i)=>svg.append("circle").attr("cx",100+i*22).attr("cy",702).attr("r",7).attr("fill",c));T(svg,540,708,"map.render(world)",{f:MONO,w:500,s:16,c:MUT,a:"middle"});
- worldMap(svg,[96,744,888,396],{fill:k=>C[k],un:"rgba(255,255,255,.95)",vStroke:"#ffffff",unStroke:"#dfe4ec"});
+ const wm=worldMap(svg,[96,744,888,396],{fill:k=>C[k],un:"rgba(255,255,255,.95)",vStroke:"#ffffff",unStroke:"#dfe4ec"});
  glass(72,1182,452,340);T(svg,98,1228,"Coverage by continent",{f:DISP,w:700,s:26,ls:-.5,c:INK});
  CONTS.map(k=>[k,...WD.by[k]]).sort((a,b)=>b[1]/b[2]-a[1]/a[2]).forEach(([k,v,tt],i)=>{const y=1258+i*42;T(svg,98,y+12,k,{f:PLEX,w:600,s:16,c:INK});T(svg,498,y+12,`${v}/${tt}`,{f:MONO,w:500,s:14,c:MUT,a:"end"});
   svg.append("rect").attr("x",98).attr("y",y+20).attr("width",400).attr("height",10).attr("rx",5).attr("fill","#e6eaf0");svg.append("rect").attr("x",98).attr("y",y+20).attr("width",Math.max(v?10:0,400*v/tt)).attr("height",10).attr("rx",5).attr("fill",C[k]);});
@@ -1655,7 +1670,8 @@ function v82(){const WD=W(),INK="#17223a",MUT="#5d6a82",AMB="#c9761a",ACC="#2b4c
  if(WD.n>12)T(svg,782,1508,`+${WD.n-12} more stamps`,{f:MONO,s:14,c:MUT,a:"middle"});
  glass(72,1546,936,290);T(svg,98,1590,"Countries visited",{f:DISP,w:700,s:26,ls:-.5,c:INK});T(svg,982,1590,`${WD.n} of 195`,{f:MONO,w:600,s:16,c:ACC,a:"end"});
  const per=Math.max(6,Math.ceil(WD.n/4)),rh=Math.min(28,210/per);WD.list.forEach((n,i)=>{const c=Math.floor(i/per),rr=i%per,x=100+c*226,y=1626+rr*rh;svg.append("circle").attr("cx",x+6).attr("cy",y-6).attr("r",6).attr("fill",C[WD.cont[n]]);fitT(T(svg,x+20,y,n,{f:PLEX,w:500,s:Math.min(17,rh*.7),c:INK}),196,17);});
- shields(1856,[["countries",`${WD.n}`,"#2f8f8a"],["world",`${WD.pct}%`,"#2b4c8c"],["continents",`${WD.active}/6`,"#6b85c9"],["next_stop","TBD","#c9761a"]]);}
+ shields(1856,[["countries",`${WD.n}`,"#2f8f8a"],["world",`${WD.pct}%`,"#2b4c8c"],["continents",`${WD.active}/6`,"#6b85c9"],["next_stop","TBD","#c9761a"]]);
+ wStickerLayer(wm,[[972,170,1.05,9],[1006,1178,.85,-10],[60,676,.8,-12],[1010,676,.8,10]],.36);}
 /* Noir & Gold World */
 function v83(){const WD=W(),IV="#f4ece0",MUT="#9d9283",GS="#c9a45c",GOLD=lg(GOLDS,1,1),FOIL=lg(GOLDS,1,.55,[64,560,1016,1080]);
  svg.append("rect").attr("width",1080).attr("height",1920).attr("fill",lg(["#171514","#0b0a0a"],0,1));noise(.05,.95,[1,.92,.82]);
@@ -1666,7 +1682,7 @@ function v83(){const WD=W(),IV="#f4ece0",MUT="#9d9283",GS="#c9a45c",GOLD=lg(GOLD
  T(svg,540,226,"AROUND  THE  WORLD",{f:PLEX,w:500,s:21,ls:8,c:MUT,a:"middle"});
  fitT(T(svg,540,350,wTitle(),{f:SERIF2,i:true,w:400,s:120,c:IV,a:"middle"}),880,120);diamondRule(svg,540,396,140,GS);
  svg.append("rect").attr("x",360).attr("y",422).attr("width",360).attr("height",52).attr("rx",26).attr("fill","none").attr("stroke",GOLD).attr("stroke-width",1.6);T(svg,540,456,`${WD.n}  of  195  countries`,{f:PLEX,w:500,s:22,ls:3,c:"#e2c27d",a:"middle"});
- worldMap(svg,[64,540,952,480],{fill:()=>FOIL,un:"#1f1d1b",vStroke:"#0b0a0a",unStroke:"#33302c",glow:shadow(0,0,22,GS,.25),dotStroke:"#0b0a0a"});
+ const wm=worldMap(svg,[64,540,952,480],{fill:()=>FOIL,un:"#1f1d1b",vStroke:"#0b0a0a",unStroke:"#33302c",glow:shadow(0,0,22,GS,.25),dotStroke:"#0b0a0a"});
  const sy=1110;[[`${WD.n}`,"COUNTRIES"],[`${WD.pct}%`,"OF THE WORLD"],[`${WD.active}/6`,"CONTINENTS"]].forEach(([v,k],i)=>{const x=220+i*320;T(svg,x,sy,v,{f:SERIF2,i:true,w:400,s:64,c:IV,a:"middle"});T(svg,x,sy+36,k,{f:PLEX,w:500,s:14,ls:5,c:MUT,a:"middle"});
   if(i)svg.append("line").attr("x1",x-160).attr("x2",x-160).attr("y1",sy-46).attr("y2",sy+34).attr("stroke",GOLD).attr("stroke-width",1).attr("opacity",.7);});
  diamondRule(svg,540,1200,400,GS);
@@ -1703,5 +1719,6 @@ if(!/[#&]v=\d+/.test(location.hash)){
  const g=document.createElement("div");g.style.cssText="display:grid;grid-template-columns:repeat(auto-fill,minmax(230px,1fr));gap:20px";document.body.appendChild(g);
  FEATURED.forEach(([v,n])=>{const a=document.createElement("a");a.href="#v="+v;a.onclick=()=>setTimeout(()=>location.reload(),0);a.style.cssText="text-decoration:none;color:#2c2531;font:500 14px system-ui";
   a.innerHTML=`<div style="width:216px;height:384px;overflow:hidden;border-radius:12px;box-shadow:0 6px 18px rgba(0,0,0,.12);background:#fff"><iframe src="index.html#v=${v}" style="width:1080px;height:1920px;border:0;transform:scale(.2);transform-origin:0 0;pointer-events:none" loading="lazy"></iframe></div><div style="margin-top:8px">${v} · ${n}</div>`;g.appendChild(a);});
-}else Promise.all(PRE.map(f=>document.fonts.load(f).catch(()=>null))).then(()=>document.fonts.ready).then(()=>{(V===999?vSheet:V===998?vLand:FN[V])();window.__drawn=true;try{parent.postMessage({type:"drawn"},"*");}catch(e){}});
+ wStickerLayer(wm,[[1000,560,.85,8],[80,1050,.85,-8],[1000,1050,.8,10]],.36);
+}else Promise.all(PRE.map(f=>document.fonts.load(f).catch(()=>null))).then(()=>document.fonts.ready).then(()=>{(V===999?vSheet:V===998?vLand:V===997?vSheetW:FN[V])();window.__drawn=true;try{parent.postMessage({type:"drawn"},"*");}catch(e){}});
 </script></body></html>

diff --git a/index.html b/index.html
@@ -195,7 +195,7 @@ footer a{color:var(--accent)}
 </div>
 <div class="mobilebar"><button class="btn big" id="toPreview" type="button">See preview &amp; download ↓</button></div>
 
-<script src="https://cdn.jsdelivr.net/npm/d3@7.9.0/dist/d3.min.js"></script><script src="generator/stickers.js"></script><script src="maker/cities.js"></script><script src="maker/countries.js"></script>
+<script src="https://cdn.jsdelivr.net/npm/d3@7.9.0/dist/d3.min.js"></script><script src="generator/stickers.js"></script><script src="maker/countries.js"></script><script src="generator/stickers-world.js"></script><script src="maker/cities.js"></script>
 <script>
 const REGIONS={
  West:["Washington","Oregon","California","Nevada","Idaho","Montana","Wyoming","Utah","Colorado","Alaska","Hawaii"],
@@ -334,20 +334,21 @@ $("modeBar").addEventListener("click",e=>{const b=e.target.closest("button[data-
 
 
 /* ---- sticker picker ---- */
-const SPOTS={72:8,73:8,74:8,75:8,58:4,63:4,56:4,69:3,65:4,66:2,67:3,68:3,70:4,71:2,55:3};
-function stickerOrder(){const cs=[];S.cities.forEach(x=>{if(!cs.includes(x.s))cs.push(x.s);});const pr=window.STICKER_PRIORITY||[];
+const SPOTS={80:5,81:5,82:4,83:3,72:8,73:8,74:8,75:8,58:4,63:4,56:4,69:3,65:4,66:2,67:3,68:3,70:4,71:2,55:3};
+function stickerOrder(){if(S.mode==="world"){const have=new Set(window.STICKER_COUNTRIES||[]),L=[...S.countries].sort();return [...L.filter(c=>have.has(c)),...L.filter(c=>!have.has(c))];}const cs=[];S.cities.forEach(x=>{if(!cs.includes(x.s))cs.push(x.s);});const pr=window.STICKER_PRIORITY||[];
  return [...cs,...pr].filter((s,i,a)=>S.states.has(s)&&a.indexOf(s)===i);}
-function stickerPick(){const off=new Set(S.stkOff||[]);return stickerOrder().filter(s=>!off.has(s));}
-function drawStickerGrid(){const wrap=$("stkWrap");const show=S.mode!=="world"&&(S.stickers||"around")!=="off";wrap.hidden=!show;if(!show)return;
+const offKey=s=>S.mode==="world"?"c:"+s:s;
+function stickerPick(){const off=new Set(S.stkOff||[]);return stickerOrder().filter(s=>!off.has(offKey(s)));}
+function drawStickerGrid(){const wrap=$("stkWrap");const show=(S.stickers||"around")!=="off";wrap.hidden=!show;if(!show)return;
  const g=$("stkGrid");g.innerHTML="";const ord=stickerOrder(),pick=stickerPick(),spots=SPOTS[S.design]||0,onMap=S.stickers==="map";
- $("stkHint").innerHTML=!ord.length?"Pick some states to get stickers.":!spots&&!onMap?"This design has no sticker spots. Pick a NEW, Wrapped or Pro design, or choose <b>On the map</b>.":
+ $("stkHint").innerHTML=!ord.length?(S.mode==="world"?"Pick some countries to get stickers.":"Pick some states to get stickers."):!spots&&!onMap?"This design has no sticker spots. Pick a NEW, Wrapped or Pro design, or choose <b>On the map</b>.":
   `Tap to choose which stickers go on your Story. <b>${pick.length}</b> of ${ord.length} picked${onMap?" · all picked stickers are pinned on their states.":` · this design shows the first <b>${spots}</b> around the map.`}`;
  ord.forEach(s=>{const i=pick.indexOf(s),on=i>=0,b=el("button",{class:"stk",type:"button","aria-pressed":on,"data-s":s,title:s});
-  const sv=d3.select(b).append("svg").attr("viewBox","-60 -60 120 120");if(window.drawSticker)drawSticker(sv,s,0,0,1,0,null);
+  const sv=d3.select(b).append("svg").attr("viewBox","-60 -60 120 120");if(window.drawSticker)drawSticker(sv,S.mode==="world"?"c:"+s:s,0,0,1,0,null);
   b.appendChild(document.createTextNode(s));if(on){const n=el("b",{class:!onMap&&i>=spots?"out":""},String(i+1));b.appendChild(n);}g.appendChild(b);});}
-$("stkGrid").addEventListener("click",e=>{const b=e.target.closest(".stk");if(!b)return;const s=b.dataset.s,off=new Set(S.stkOff||[]);off.has(s)?off.delete(s):off.add(s);S.stkOff=[...off];drawStickerGrid();update();});
-$("stkAll").onclick=()=>{S.stkOff=[];drawStickerGrid();update();};
-$("stkNone").onclick=()=>{S.stkOff=stickerOrder();drawStickerGrid();update();};
+$("stkGrid").addEventListener("click",e=>{const b=e.target.closest(".stk");if(!b)return;const s=offKey(b.dataset.s),off=new Set(S.stkOff||[]);off.has(s)?off.delete(s):off.add(s);S.stkOff=[...off];drawStickerGrid();update();});
+$("stkAll").onclick=()=>{const own=new Set(stickerOrder().map(offKey));S.stkOff=(S.stkOff||[]).filter(k=>!own.has(k));drawStickerGrid();update();};
+$("stkNone").onclick=()=>{S.stkOff=[...new Set([...(S.stkOff||[]),...stickerOrder().map(offKey)])];drawStickerGrid();update();};
 
 /* ---- download ---- */
 let reqId=0;

diff --git a/README.md b/README.md
@@ -27,7 +27,7 @@ Nothing you type is uploaded anywhere. Everything runs in your browser. **Copy l
 
 ## 🌍 World mode
 
-Not just the US: switch the maker to **World · countries** at the top, tap the countries you've been to (grouped by continent, with search and "select all"), and pick a world design: **World Atlas** (light and dark), **World Wrapped** and **Noir & Gold World**. Stats are calculated for you: countries (of 195), % of the world, continents (of 6) and your top continent. In `my-travel.js`, list them in `countries` and render designs 80–83.
+Not just the US: switch the maker to **World · countries** at the top, tap the countries you've been to (grouped by continent, with search and "select all"), and pick a world design: **World Atlas** (light and dark), **World Wrapped** and **Noir & Gold World**. Stats are calculated for you: countries (of 195), % of the world, continents (of 6) and your top continent. In `my-travel.js`, list them in `countries` and render designs 80–83. Each country has a sticker of what it's known for (boba tea for Taiwan, ramen for Japan, curry for India, about 100 hand-drawn; the rest get a passport-stamp sticker), and the sticker picker works the same way. Open `generator/index.html#v=997&pg=0` to see them all.
 
 ---
 
